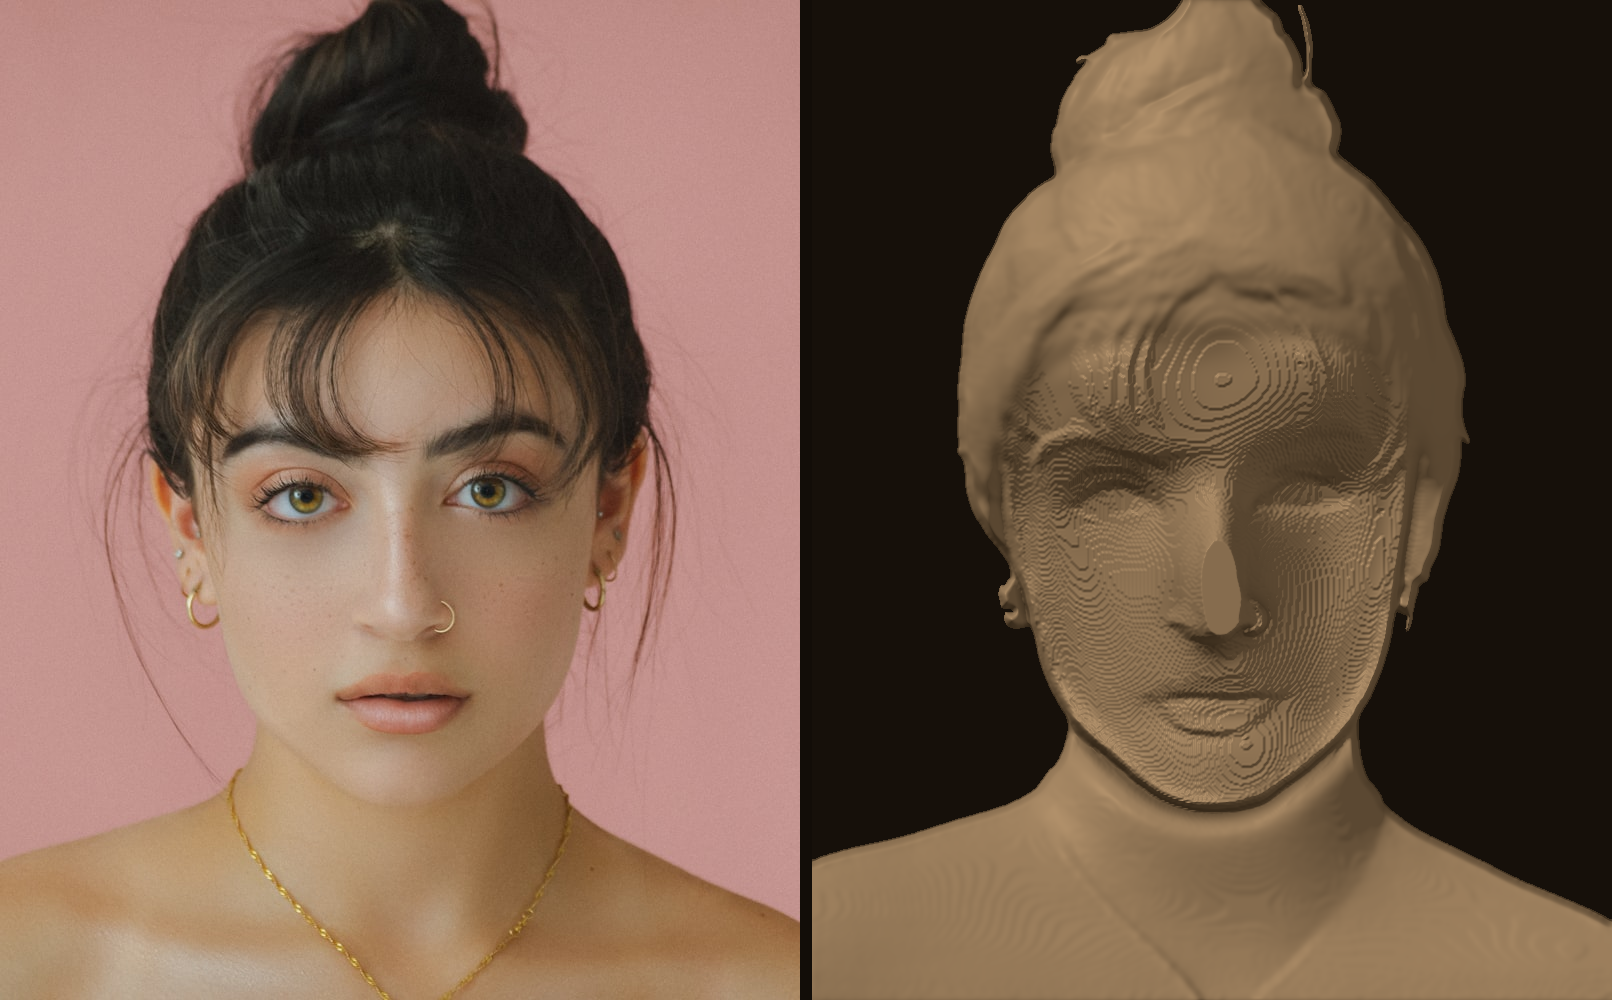
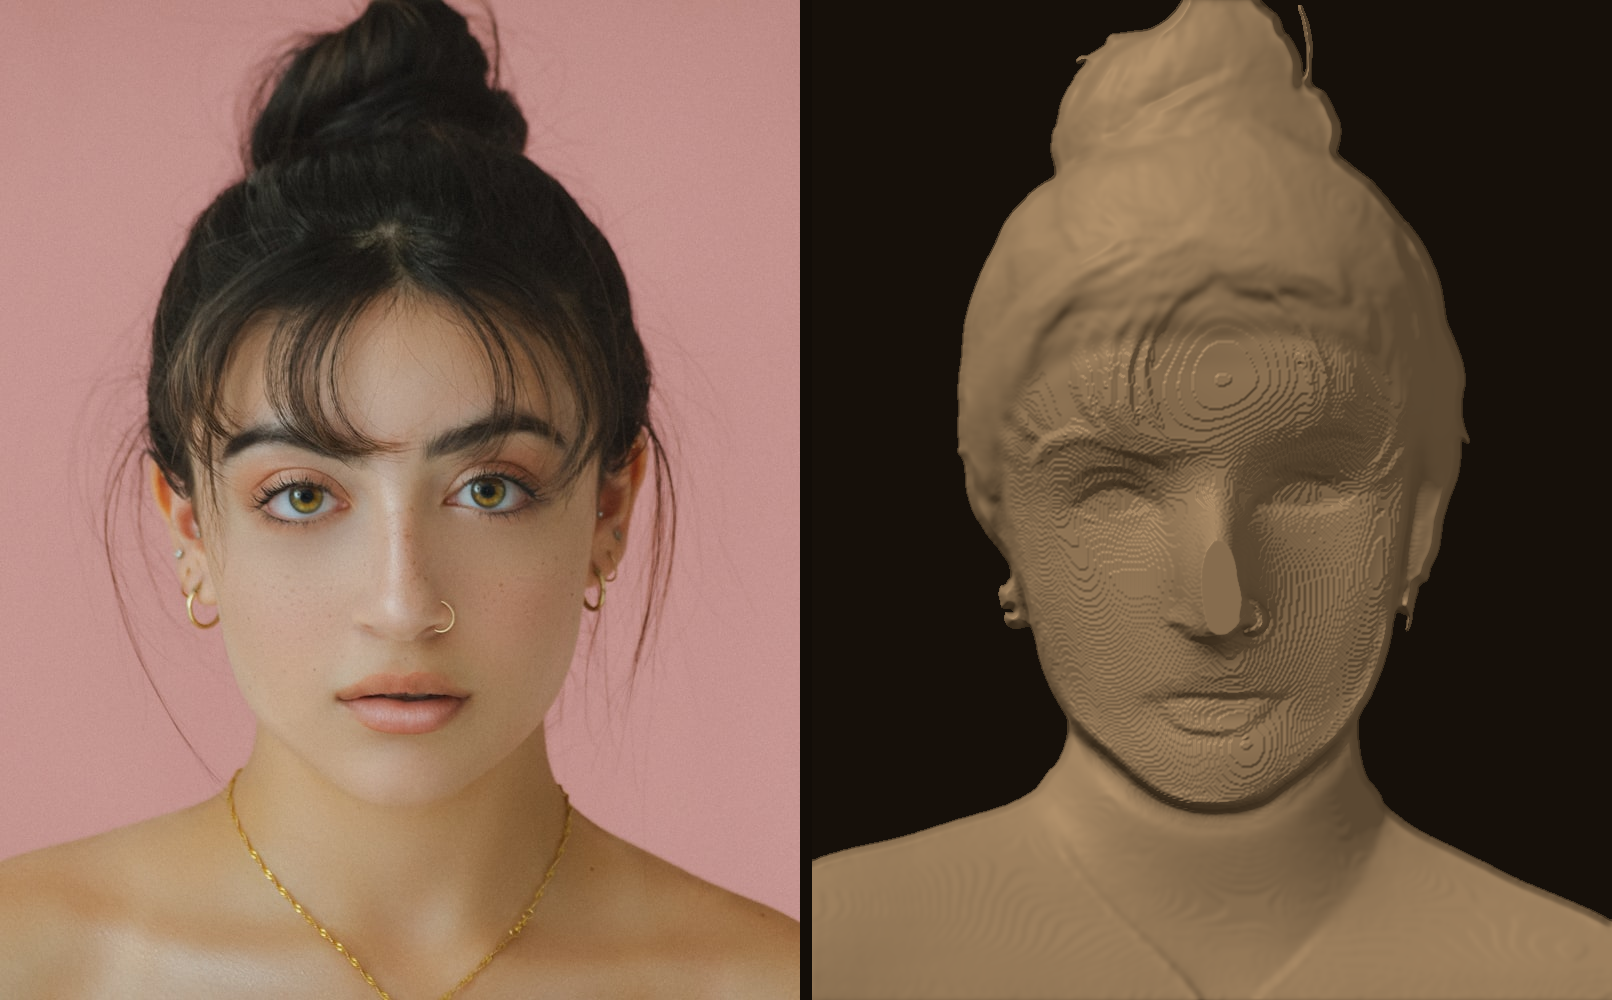
Add face dome projection, reduce sunken eyes
- Add convex face dome that makes the entire face project OUT from
  the background (the #1 missing piece — faces looked flat/sunken)
- Reduce eye socket recess from 0.08-0.20 to 0.04-0.10 (less skeletal)
- Raise face depth redistribution floor from 0.30 to 0.45 (face sits
  higher above background plane)

https://claude.ai/code/session_01LWcZc1CYP2PqS1dNMpUiK8

diff --git a/backend/app/pipeline/refiner.py b/backend/app/pipeline/refiner.py
@@ -150,6 +150,16 @@ class DepthRefiner:
 
             h, w = depth_map.shape
 
+            # --- FACE DOME: Overall convex projection ---
+            # This is what makes the face PROJECT OUT from the background
+            # Without this, the face looks flat/sunken
+            face_dome = ndimage.gaussian_filter(masks.face_outline, sigma=25)
+            face_dome = face_dome / max(face_dome.max(), 1e-6)
+            # Raise the dome shape — parabolic curve, highest at center
+            face_dome = face_dome ** 0.7  # Broader dome shape
+            dome_height = 0.15 * params.feature_strength
+            sculpture = sculpture + face_dome * dome_height
+
             # --- NOSE: Strong central projection ---
             nose_boost = 0.30 * params.nose_projection
             # Use nose landmarks to find the ridge line
@@ -179,7 +189,7 @@ class DepthRefiner:
                 sculpture = sculpture + nose_mound + tip_peak
 
             # --- EYES: Concave sockets with brow ridge ---
-            eye_recess = 0.08 + 0.12 * params.eye_depth  # 0.08-0.20
+            eye_recess = 0.04 + 0.06 * params.eye_depth  # 0.04-0.10 (subtle!)
             for eye_indices_name in ["left_eye", "right_eye"]:
                 eye_mask = getattr(masks, eye_indices_name)
                 if eye_mask.sum() < 10:
@@ -281,8 +291,9 @@ class DepthRefiner:
         if face_range < 0.01:
             return result
 
-        # Target: face features span 0.3-1.0 of depth range
-        target_min = 0.30
+        # Target: face features span 0.45-1.0 of depth range
+        # Higher min = face projects MORE above background
+        target_min = 0.45
         target_max = 1.0
         scale = (target_max - target_min) / face_range
         stretched = target_min + (depth - face_min) * scale
